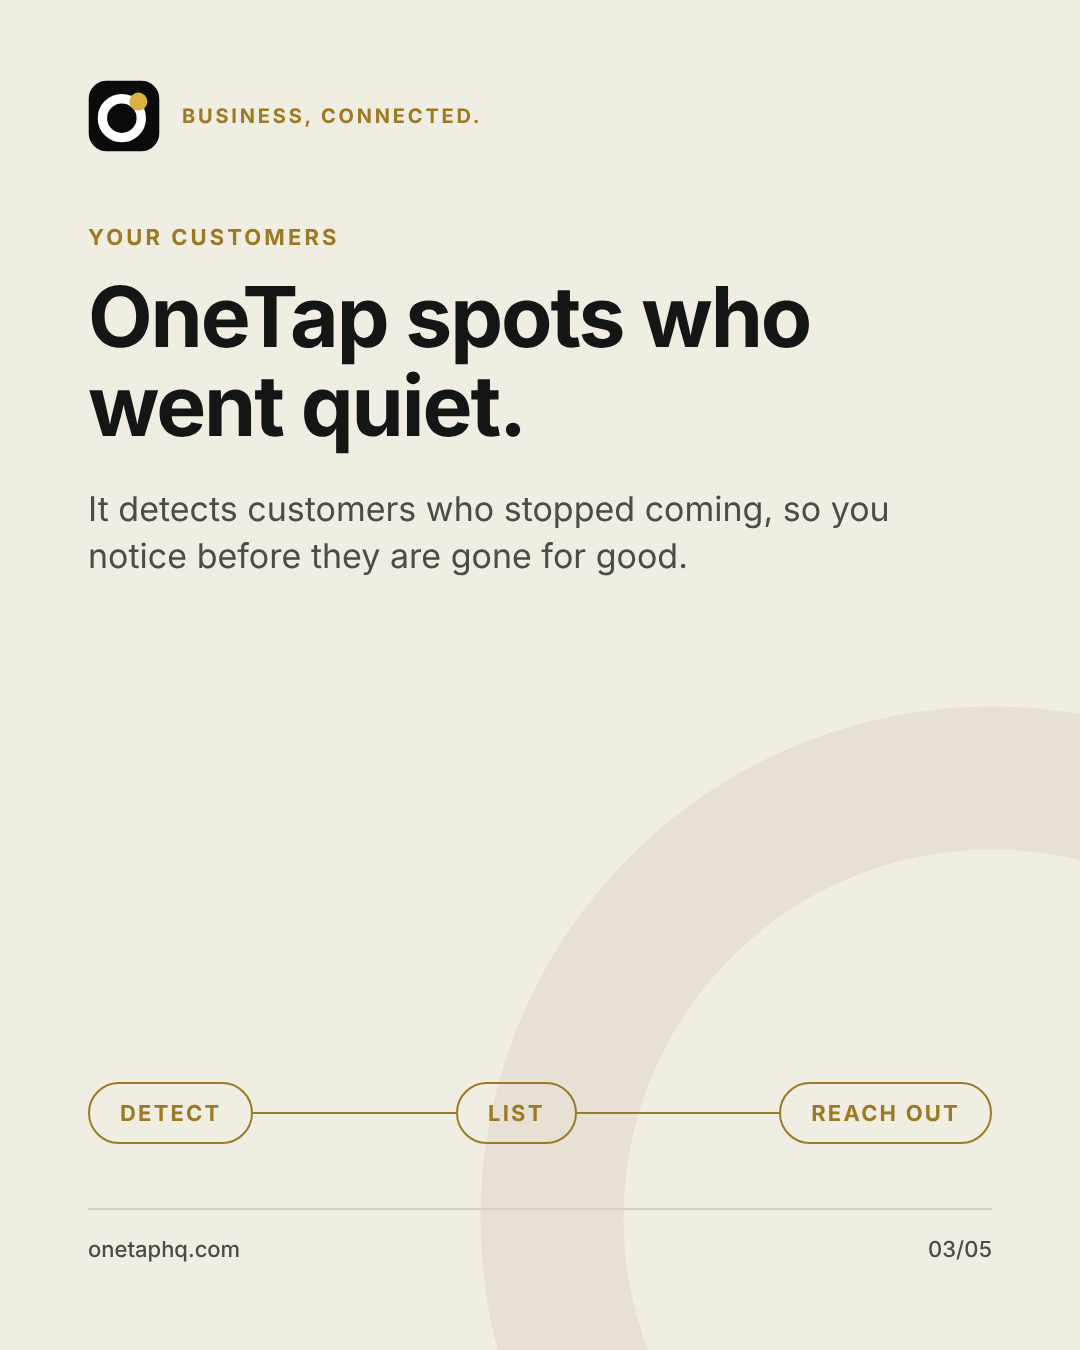
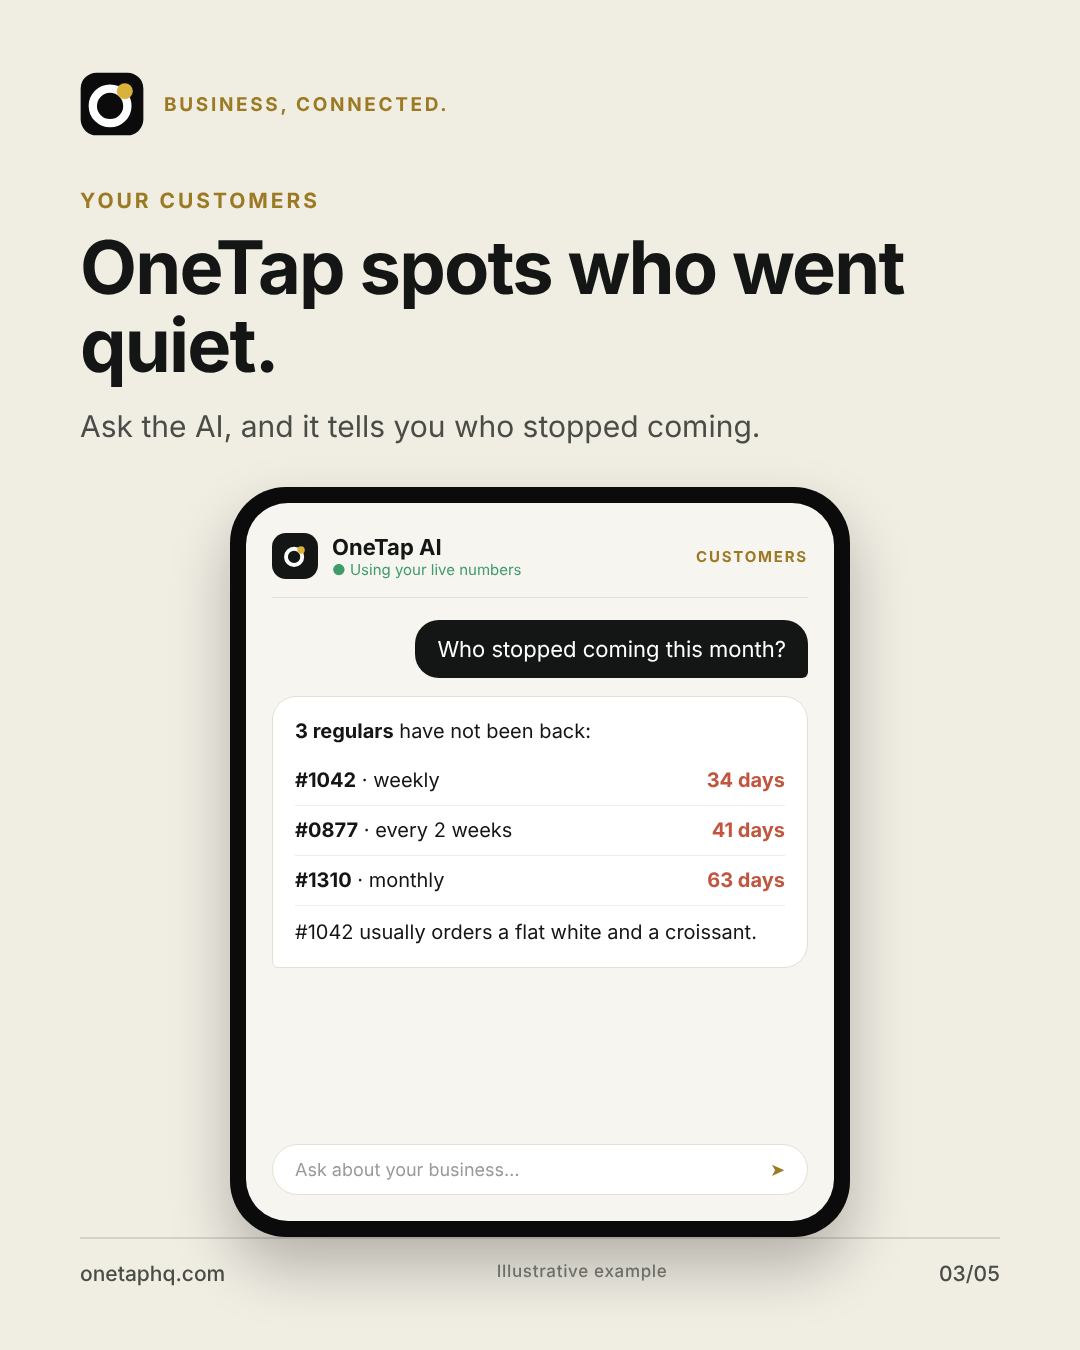
Week 3: richer carousels with app and AI chat screens
Claude-Session: https://claude.ai/code/session_016XyoQWqqPZsoqLDs23QYnh

Changed region(s): [[0.0611, 0.0311, 0.8861, 0.9644], [0.8556, 0.9022, 0.9167, 0.9644]]

diff --git a/semana-3/organic-en/CALENDAR_AND_CAPTIONS_WEEK_3.md b/semana-3/organic-en/CALENDAR_AND_CAPTIONS_WEEK_3.md
@@ -2,6 +2,7 @@
 
 Instagram + Facebook, 1:00 p.m. Panama. Scheduled in Meta Business Suite after Luz approves.
 Feed order keeps the mix: static, reel, carousel.
+App screens in the pieces are illustrative examples (marked on each slide), not real customer data.
 
 | Day | Format | Topic | Vertical |
 |---|---|---|---|
@@ -48,7 +49,7 @@ Files: Sun_22_Carousel_Close_the_day_in_minutes/01.png to 05.png
 
 Sales, taxes, tips, cash. The day ends, but the math keeps going.
 
-With OneTap you close each shift with a cash count, and at midnight the day closes itself: sales, taxes, tips, ingredients used, waste and labor cost in one daily close. Check it live from your phone.
+With OneTap you close each shift with a cash count, and at midnight the day closes itself: sales, taxes, tips, ingredients used, waste and labor cost in one daily close. Want the short version? Ask the AI how the day went, and it answers with your real numbers.
 
 Save this for tonight's close. First month free, no card required. Link in bio.
 
@@ -93,7 +94,7 @@ Files: Wed_25_Carousel_Who_stopped_coming_back/01.png to 05.png
 
 Regulars rarely say goodbye. They just stop showing up.
 
-OneTap keeps each customer's history in one profile and spots the ones who went quiet, so you can reach out before they are gone for good.
+OneTap keeps each customer's history in one profile. Ask the AI who stopped coming, and reach out before they are gone for good.
 
 Who would you call first? First month free, no card required. Link in bio.
 
